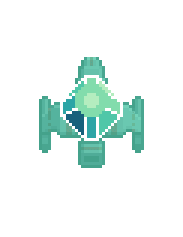
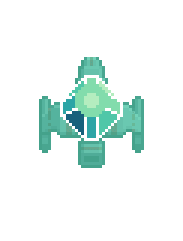
Replaced frame images / adjusted hitbox position

diff --git a/Classes.js b/Classes.js
@@ -22,14 +22,14 @@ class Board {
 
 class Player {
 	constructor(x, y) {
-		this.width = 128;
-		this.height = 172;
+		this.width = 183;
+		this.height = 241;
 		this.x = x - this.width / 2;
 		this.y = y - this.height / 2;
 		///
 		this.hitbox = {
-			width: 54,
-			height: 64,
+			width: 105,
+			height: 111,
 			x: this.x,
 			y: this.y,
 		};
@@ -59,16 +59,17 @@ class Player {
 	draw = () => {
 		if (isRunning) {
 			//PLAYER
-			// ctx.drawImage(this.img, this.x, this.y, this.width, this.height);
 			ctx.fillStyle = 'rgba(0, 255, 47, 0.2)';
 			ctx.fillRect(this.x, this.y, this.width, this.height);
 
 			//HITBOX
 			this.hitbox.x = this.x + this.width / 2 - this.hitbox.width / 2;
-			this.hitbox.y = this.y + this.height / 2 - this.hitbox.height / 2;
+			this.hitbox.y = this.y + this.height / 2 - this.hitbox.height / 2 - 8;
 
 			ctx.fillStyle = 'red';
 			ctx.fillRect(this.hitbox.x, this.hitbox.y, this.hitbox.width, this.hitbox.height);
+
+			ctx.drawImage(this.img, this.x, this.y, this.width, this.height);
 		}
 	};
 

diff --git a/main.js b/main.js
@@ -211,7 +211,7 @@ function start() {
 
 	// meteorSpawner = setInterval(spawnMeteor, spawnSpeed);
 	mainInterval = setInterval(update, 10); // 100FPS
-	playerAnimationInterval = setInterval(player1.framesInterval, 500);
+	playerAnimationInterval = setInterval(player1.framesInterval, 60);
 }
 
 function update() {
